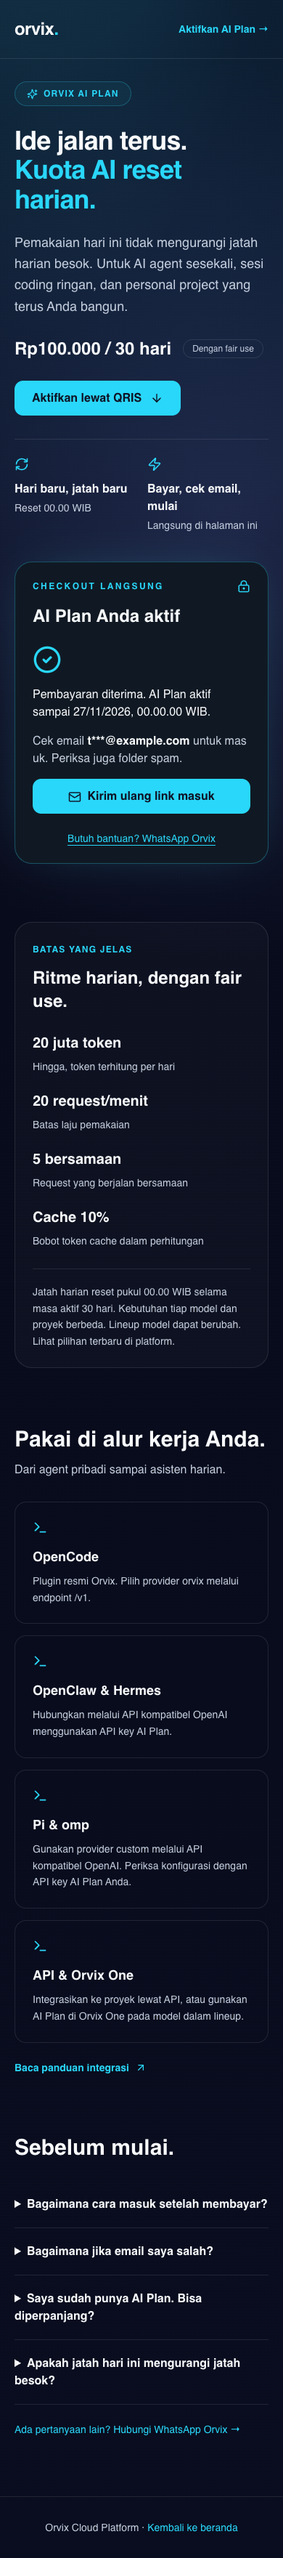
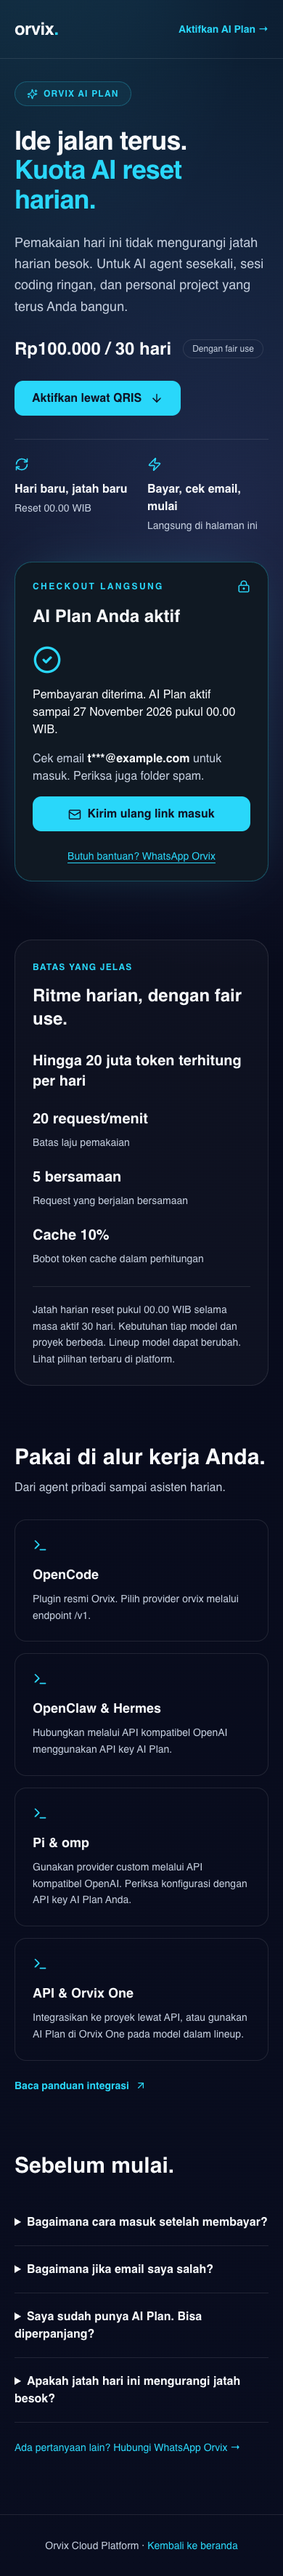
fix: preserve Pixel attribution and polish AI Plan checkout

diff --git a/scripts/checkout-tests/checkout.spec.ts b/scripts/checkout-tests/checkout.spec.ts
@@ -1,5 +1,5 @@
 import { test, expect, Page } from "@playwright/test";
-import { mkdir } from "node:fs/promises";
+import { mkdir, writeFile } from "node:fs/promises";
 const checkout = { checkoutId: "mock-checkout", checkoutSecret: "mock-secret", amountIdr: 100000, qrisPayload: "MOCK-NON-PAYABLE-QR-FOR-UI-REVIEW", expiresAt: "2099-01-01T00:00:00Z", emailMasked: "t***@example.com" };
 const storageKey = "orvix.ai-checkout.v1";
 async function mock(page: Page, state: string, stored = false) {
@@ -37,23 +37,46 @@ for (const width of [390, 1440]) {
       await page.evaluate(() => document.fonts.ready);
       await mkdir("docs/screenshots/ai-plan", { recursive: true });
       await page.screenshot({ path: `docs/screenshots/ai-plan/${width}-${state}.png`, fullPage: true });
+      if (width === 390 && state === "form") {
+        const fairUse = page.getByRole("region", { name: "Ritme harian, dengan fair use." });
+        await expect(fairUse).toContainText("Hingga 20 juta token terhitung per hari");
+        await fairUse.scrollIntoViewIfNeeded();
+        await page.screenshot({ path: "docs/screenshots/ai-plan/390-landing-fair-use.png" });
+      }
+      if (width === 390 && state === "fulfilled") {
+        const fulfilled = page.getByRole("region", { name: "AI Plan Anda aktif" });
+        await expect(fulfilled).toContainText("27 November 2026 pukul 00.00 WIB");
+        expect(await fulfilled.locator("p").evaluateAll((elements) => elements.every((element) => getComputedStyle(element).wordBreak === "normal"))).toBe(true);
+        await fulfilled.scrollIntoViewIfNeeded();
+        await page.screenshot({ path: "docs/screenshots/ai-plan/390-fulfilled-detail.png" });
+      }
     });
   }
 }
 test("QR refresh restoration, paid continues polling, fulfilled Purchase is deduped", async ({ page }) => {
   let state = "pending";
   let gets = 0;
+  const scriptLoadUrls: string[] = [];
+  const pixelCalls: unknown[][] = [];
+  await page.exposeFunction("recordPixelCall", (...args: unknown[]) => pixelCalls.push(args));
   await page.addInitScript(() => { Object.defineProperty(navigator, "webdriver", { get: () => false }); Object.defineProperty(navigator, "userAgent", { get: () => "Mozilla/5.0 Chrome/130 Safari/537.36" }); });
   await page.route("**/*", async (route) => {
     const url = new URL(route.request().url());
     if (url.hostname === "127.0.0.1") return route.continue();
+    if (url.hostname === "connect.facebook.net" && url.pathname.endsWith("/fbevents.js")) {
+      const pageUrl = page.url();
+      scriptLoadUrls.push(pageUrl);
+      expect(new URL(pageUrl).searchParams.get("fbclid")).toBe("mock-click-id");
+      expect(new URL(pageUrl).searchParams.get("utm_source")).toBe("meta");
+      return route.fulfill({ contentType: "application/javascript", body: "window.fbq.queue.forEach(args => window.recordPixelCall(...args)); window.fbq.callMethod = (...args) => { window.fbq.queue.push(args); window.recordPixelCall(...args); };" });
+    }
     if (url.hostname !== "checkout.invalid") return route.abort();
     if (route.request().method() === "POST") return route.fulfill({ status: 201, json: checkout });
     gets++;
     return route.fulfill({ json: { status: state, expiresAt: checkout.expiresAt, emailMasked: checkout.emailMasked, ...(state === "fulfilled" ? { purchaseEventId: "exact-ledger" } : {}) } });
   });
-  await page.goto("/ai-plan?utm_source=meta&email=never-send@example.com");
-  await expect(page).toHaveURL(/\/ai-plan$/);
+  await page.goto("/ai-plan?utm_source=meta&fbclid=mock-click-id");
+  await expect(page).toHaveURL(/\/ai-plan\?utm_source=meta&fbclid=mock-click-id$/);
   await page.getByLabel("Email", { exact: true }).fill("test@example.com"); await page.getByLabel("Konfirmasi email").fill("test@example.com");
   await page.getByRole("button", { name: /Bayar/ }).click();
   await expect(page.getByRole("heading", { name: "Scan QRIS untuk membayar" })).toBeVisible();
@@ -63,6 +86,15 @@ test("QR refresh restoration, paid continues polling, fulfilled Purchase is dedu
   state = "fulfilled"; await expect(page.getByRole("heading", { name: "AI Plan Anda aktif" })).toBeVisible({ timeout: 10000 }); expect(gets).toBeGreaterThan(count);
   const queue = await page.evaluate(() => (window as unknown as { fbq: { queue: unknown[][] } }).fbq.queue);
   const purchase = queue.filter((event) => event[1] === "Purchase"); expect(purchase).toHaveLength(1); expect(purchase[0][3]).toEqual({ eventID: "exact-ledger" });
+  for (const event of ["ViewContent", "InitiateCheckout", "Purchase"]) {
+    await expect.poll(() => pixelCalls.filter((call) => call[1] === event).length).toBeGreaterThan(0);
+    for (const call of pixelCalls.filter((call) => call[1] === event)) expect(call[2]).toMatchObject({ content_ids: ["orvix-ai-2026-10"], value: 100000, currency: "IDR" });
+  }
+  expect(scriptLoadUrls.length).toBeGreaterThan(0);
+  const evidence = { scriptLoadUrls, pixelCalls };
+  console.log("Mock Pixel evidence:", JSON.stringify(evidence));
+  await mkdir("docs/screenshots/ai-plan", { recursive: true });
+  await writeFile("docs/screenshots/ai-plan/pixel-evidence.json", `${JSON.stringify(evidence, null, 2)}\n`);
   expect(JSON.stringify(queue)).not.toContain("example.com");
   expect(await page.evaluate((key) => sessionStorage.getItem(key), storageKey)).toBeNull();
   await page.reload(); expect(await page.evaluate(() => (window as unknown as { fbq: { queue: unknown[][] } }).fbq.queue.filter((e) => e[1] === "Purchase"))).toHaveLength(0);

diff --git a/src/components/AiPlanCheckout.tsx b/src/components/AiPlanCheckout.tsx
@@ -100,7 +100,7 @@ export default function AiPlanCheckout() {
       <p className="text-sm text-text-secondary">{pricingCopy.aiPlanPrice}. Link masuk dikirim ke email setelah aktivasi.</p>
       <label className="block text-sm font-medium" htmlFor="checkout-email">Email<input id="checkout-email" type="email" autoComplete="email" required maxLength={254} value={email} onChange={(e) => setEmail(e.target.value)} className="mt-2 min-h-12 w-full rounded-xl border border-white/15 bg-background px-4 text-base" placeholder="nama@email.com" /></label>
       <label className="block text-sm font-medium" htmlFor="checkout-confirm">Konfirmasi email<input id="checkout-confirm" type="email" autoComplete="off" required maxLength={254} value={confirmation} onChange={(e) => setConfirmation(e.target.value)} className="mt-2 min-h-12 w-full rounded-xl border border-white/15 bg-background px-4 text-base" placeholder="Ketik ulang email Anda" /></label>
-      {email && <p className="break-all text-sm text-text-secondary">Link masuk akan dikirim ke <strong className="text-foreground">{email}</strong>.</p>}
+      {email && <p className="text-sm text-text-secondary">Link masuk akan dikirim ke <strong className="break-all text-foreground">{email}</strong>.</p>}
       <button className={button} disabled={busy || !gatewayUrl()}>{busy ? "Menyiapkan QRIS…" : `Bayar ${formatIdr(aiPlan.priceIdr)} dengan QRIS`}</button>
       {!gatewayUrl() && <p role="status" className="text-sm text-amber-200">Pembayaran belum tersedia. Hubungi kami atau coba lagi nanti.</p>}
       <p className="text-xs leading-relaxed text-text-secondary">Pastikan email benar sebelum membayar. Akses akun hanya melalui link di email.</p>
@@ -109,11 +109,11 @@ export default function AiPlanCheckout() {
       <p className="text-3xl font-bold">{formatIdr(checkout.amountIdr)}</p>
       {remaining > 0 ? <><div className="mx-auto my-5 w-fit rounded-2xl bg-white p-4"><QRCodeSVG value={checkout.qrisPayload} size={224} marginSize={4} title="QRIS pembayaran AI Plan" /></div><p className="font-mono text-sm text-primary">Berlaku {Math.floor(remaining / 60)}:{String(remaining % 60).padStart(2, "0")}</p></> : <p className="my-6 text-amber-200">Waktu QR habis. Memeriksa status terakhir… Jangan bayar QR ini.</p>}
       <p className="mt-3 text-sm leading-relaxed text-text-secondary">Scan dengan m-banking atau e-wallet. Di HP yang sama, screenshot QR lalu pilih gambar dari galeri di aplikasi pembayaran.</p>
-      <p className="mt-4 break-all text-sm">Email tujuan: {status?.emailMasked ?? checkout.emailMasked}</p>
+      <p className="mt-4 text-sm">Email tujuan: <strong className="break-all">{status?.emailMasked ?? checkout.emailMasked}</strong></p>
       <p className="mt-3 flex items-center justify-center gap-2 text-xs text-text-secondary"><QrCode size={15} /> Status diperbarui otomatis</p>
     </div>}
     {state === "paid" && <div className="mt-6 space-y-4"><CheckCircle2 className="text-primary" size={40} /><p>Pembayaran berhasil diterima. AI Plan sedang diaktifkan.</p><p className="text-sm text-text-secondary">Kami terus memeriksa aktivasi. Tidak perlu membayar lagi.</p></div>}
-    {state === "fulfilled" && <div className="mt-6 space-y-4"><CheckCircle2 className="text-primary" size={40} /><p>Pembayaran diterima.{status?.planExpiresAt && ` AI Plan aktif sampai ${new Date(status.planExpiresAt).toLocaleString("id-ID", { timeZone: "Asia/Jakarta" })} WIB.`}</p><p className="break-all text-text-secondary">Cek email <strong className="text-foreground">{status?.emailMasked}</strong> untuk masuk. Periksa juga folder spam.</p><button onClick={resend} disabled={busy} className={button}><Mail className="mr-2 inline" size={18} />{busy ? "Mengirim…" : "Kirim ulang link masuk"}</button></div>}
+    {state === "fulfilled" && <div className="mt-6 space-y-4"><CheckCircle2 className="text-primary" size={40} /><p>Pembayaran diterima.{status?.planExpiresAt && ` AI Plan aktif sampai ${new Date(status.planExpiresAt).toLocaleString("id-ID", { dateStyle: "long", timeStyle: "short", timeZone: "Asia/Jakarta" })} WIB.`}</p><p className="text-text-secondary">Cek email <strong className="break-all text-foreground">{status?.emailMasked}</strong> untuk masuk. Periksa juga folder spam.</p><button onClick={resend} disabled={busy} className={button}><Mail className="mr-2 inline" size={18} />{busy ? "Mengirim…" : "Kirim ulang link masuk"}</button></div>}
     {state === "failed" && <p className="mt-5 leading-relaxed text-text-secondary">Dana pembayaran sudah masuk ke saldo, tetapi AI Plan belum berhasil diaktifkan. Jangan bayar ulang. Hubungi tim kami melalui WhatsApp untuk bantuan.</p>}
     {state === "expired" && <div className="mt-5 space-y-5"><p className="text-text-secondary">Masa berlaku QR ini berakhir. Jika sudah membayar, hubungi kami sebelum membuat pembayaran lain.</p><button onClick={reopen} className={button}>Buat QR baru</button></div>}
     {state === "invalid" && <div className="mt-5 space-y-5"><p className="text-text-secondary">Kunci checkout tidak tersedia atau sudah tidak valid. Masukkan email yang sama untuk membuka kembali checkout. Jika sudah membayar, cek email atau hubungi kami; jangan bayar ulang.</p><button onClick={reopen} className={button}>Buka kembali dengan email</button></div>}

diff --git a/src/test/ai-checkout.test.tsx b/src/test/ai-checkout.test.tsx
@@ -48,7 +48,7 @@ describe("checkout security contract", () => {
     trackPixel("Purchase", 100000, "purchase-test", "ledger-id");
     trackPixel("Purchase", 100000, "purchase-test", "ledger-id");
     expect(fbq).toHaveBeenCalledTimes(1);
-    expect(fbq).toHaveBeenCalledWith("track", "Purchase", { content_ids: ["ai-plan"], content_type: "product", value: 100000, currency: "IDR" }, { eventID: "ledger-id" });
+    expect(fbq).toHaveBeenCalledWith("track", "Purchase", { content_ids: ["orvix-ai-2026-10"], content_type: "product", value: 100000, currency: "IDR" }, { eventID: "ledger-id" });
     vi.resetModules();
     const reloaded = await import("@/lib/aiPixel"); reloaded.trackPixel("Purchase", 100000, "purchase-test", "ledger-id");
     expect(fbq).toHaveBeenCalledTimes(1); delete window.fbq;
@@ -56,6 +56,19 @@ describe("checkout security contract", () => {
 });
 
 describe("checkout UI", () => {
+  it("formats fulfilled expiry in Jakarta without seconds and wraps only the email", async () => {
+    saveCheckout(fixture);
+    vi.stubGlobal("fetch", vi.fn().mockResolvedValue(response({ status: "fulfilled", expiresAt: fixture.expiresAt, emailMasked: fixture.emailMasked, planExpiresAt: "2026-11-26T17:00:00Z" })));
+    render(<AiPlanCheckout />);
+    await screen.findByRole("heading", { name: "AI Plan Anda aktif" });
+    const expiry = screen.getByText(/AI Plan aktif sampai/);
+    expect(expiry).toHaveTextContent("27 November 2026 pukul 00.00 WIB");
+    expect(expiry.textContent).not.toMatch(/[:.]\d{2}\.\d{2}/);
+    const email = screen.getByText(fixture.emailMasked);
+    expect(email.tagName).toBe("STRONG");
+    expect(email).toHaveClass("break-all");
+    expect(email.parentElement).not.toHaveClass("break-all", "break-words");
+  });
   it("pauses polling while hidden and resumes visible", async () => {
     saveCheckout(fixture);
     const visibility = vi.spyOn(document, "visibilityState", "get").mockReturnValue("hidden");

diff --git a/src/pages/AiPlan.tsx b/src/pages/AiPlan.tsx
@@ -24,11 +24,11 @@ export default function AiPlan() {
         <section className="mt-20 rounded-3xl border border-white/10 bg-white/[.025] p-6 sm:p-9" aria-labelledby="fair-use-title">
           <span className="text-xs font-bold uppercase tracking-widest text-primary">Batas yang jelas</span><h2 id="fair-use-title" className="mt-3 text-2xl font-bold">Ritme harian, dengan fair use.</h2>
           <div className="mt-7 grid gap-6 sm:grid-cols-2 lg:grid-cols-4">{[
-            [formatTokens(aiPlan.fairUse.dailyTokens), "Hingga, token terhitung per hari"],
+            [`Hingga ${formatTokens(aiPlan.fairUse.dailyTokens)} terhitung per hari`, ""],
             [`${formatNumber(aiPlan.fairUse.requestsPerMinute)} request/menit`, "Batas laju pemakaian"],
             [`${formatNumber(aiPlan.fairUse.concurrentRequests)} bersamaan`, "Request yang berjalan bersamaan"],
             [`Cache ${formatNumber(aiPlan.fairUse.cachedTokenPercent)}%`, "Bobot token cache dalam perhitungan"],
-          ].map(([title, copy]) => <div key={title}><p className="text-xl font-bold">{title}</p><p className="mt-2 text-sm text-text-secondary">{copy}</p></div>)}</div>
+          ].map(([title, copy]) => <div key={title}><p className="text-xl font-bold">{title}</p>{copy && <p className="mt-2 text-sm text-text-secondary">{copy}</p>}</div>)}</div>
           <p className="mt-7 border-t border-white/10 pt-5 text-sm leading-relaxed text-text-secondary">Jatah harian reset pukul {aiPlan.resetTime} selama masa aktif {formatValidity(aiPlan.validityDays)}. Kebutuhan tiap model dan proyek berbeda. {aiPlan.lineupNote}</p>
         </section>
         <section className="mt-20"><h2 className="text-3xl font-bold">Pakai di alur kerja Anda.</h2><p className="mt-3 text-text-secondary">Dari agent pribadi sampai asisten harian.</p>

diff --git a/src/data/pricing.ts b/src/data/pricing.ts
@@ -50,7 +50,7 @@ export const tokenPlans: TokenPlan[] = [
 ];
 
 export const aiPlan = {
-  slug: "ai-plan", resetTime: "00.00 WIB",
+  slug: "ai-plan", metaContentId: "orvix-ai-2026-10", resetTime: "00.00 WIB",
   id: "ai-plan", name: "Orvix AI Plan", category: "ai", priceIdr: 100_000,
   tokens: null, credits: null, validityDays: 30,
   audience: "Untuk penggunaan AI rutin dengan batas pemakaian wajar yang jelas.",
@@ -58,7 +58,7 @@ export const aiPlan = {
   fairUse: { requestsPerMinute: 20, concurrentRequests: 5, dailyTokens: 20_000_000, cachedTokenPercent: 10 },
   tagline: "AI sepuasnya, dengan fair use.",
   lineupNote: "Lineup model dapat berubah. Lihat pilihan terbaru di platform.",
-} satisfies PricingPlan & { slug: string; resetTime: string; fairUse: { requestsPerMinute: number; concurrentRequests: number; dailyTokens: number; cachedTokenPercent: number }; tagline: string; lineupNote: string };
+} satisfies PricingPlan & { slug: string; metaContentId: string; resetTime: string; fairUse: { requestsPerMinute: number; concurrentRequests: number; dailyTokens: number; cachedTokenPercent: number }; tagline: string; lineupNote: string };
 
 export const codingPlan = {
   id: "coding-plan", name: "Coding Plan", category: "coding", priceIdr: 150_000,

diff --git a/src/lib/aiPixel.ts b/src/lib/aiPixel.ts
@@ -10,8 +10,8 @@ export function pixelAllowed(id = import.meta.env.VITE_META_PIXEL_ID) {
 export function startPixel() {
   if (!pixelAllowed() || initialized) return;
   initialized = true;
-  // Strip untrusted query data before Meta reads the page URL; attribution was captured first.
-  history.replaceState(history.state, "", window.location.pathname);
+  // Keep fbclid/utm_* in the URL so fbevents.js can capture the click and create _fbc.
+  // Gateway attribution is captured separately by the checkout.
   if (!window.fbq) {
     const fbq: Pixel = Object.assign((...args: unknown[]) => {
       if (fbq.callMethod) fbq.callMethod(...args); else fbq.queue.push(args);
@@ -36,5 +36,5 @@ export function trackPixel(event: "ViewContent" | "InitiateCheckout" | "Purchase
     seen.add(key);
     try { sessionStorage.setItem(key, "1"); } catch { /* Payment must work without storage. */ }
   }
-  window.fbq("track", event, { content_ids: [aiPlan.slug], content_type: "product", value: amount, currency: "IDR" }, ...(eventId ? [{ eventID: eventId }] : []));
+  window.fbq("track", event, { content_ids: [aiPlan.metaContentId], content_type: "product", value: amount, currency: "IDR" }, ...(eventId ? [{ eventID: eventId }] : []));
 }

diff --git a/src/data/siteContent.test.ts b/src/data/siteContent.test.ts
@@ -44,8 +44,9 @@ describe("public product contract", () => {
 });
 
 describe("rupiah pricing contract", () => {
-  it("matches the gateway AI Plan checkout slug and Jakarta daily reset", () => {
+  it("preserves the landing slug and matches gateway CAPI content ID and Jakarta daily reset", () => {
     expect(aiPlan.slug).toBe("ai-plan");
+    expect(aiPlan.metaContentId).toBe("orvix-ai-2026-10");
     expect(aiPlan.resetTime).toBe("00.00 WIB");
   });
   it("scopes the teaser to the cheapest Token Plan, rather than image credits", () => {
